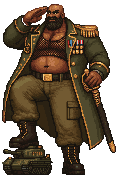
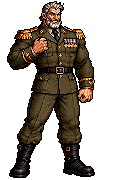
Redraw jompon sprites to match his love-scene design (silver hair, grey beard)
Claude-Session: https://claude.ai/code/session_01VCzUnoAUkKZrLg4uFbhBUz

diff --git a/web/index.html b/web/index.html
@@ -829,7 +829,7 @@ const HUNKS = [
     look: { skin: '#e0a77a', hair: '#8f8f8f', hs: 'side', beard: 'full', hairy: 1.5, inner: ['tee', '#d9c48a'], outer: ['flannel', '#3f6aa3'], pants: '#8a7350', briefs: '#a33838' } }),
   H({ id: 'jompon', tribe: 'bear', name: 'จอมพล', cost: 3, pow: 3, grit: 7, outfit: 2, in: 'S', out: 'S', kw: ['thick'],
     text: 'Thick\nBARE: หมีของเราทุกตัว Power +1', short: 'Thick · BARE: หมีทั้งทีม +1',
-    look: { skin: '#8d5a3a', hair: '#151010', hs: 'bald', beard: 'full', hairy: 2, S: 31, W: 28, inner: ['tank', '#3d3d44'], outer: ['uniform', '#4b5a3a'], pants: '#4d5a33', briefs: '#c9a227' } }),
+    look: { skin: '#d8986a', hair: '#aaa', hs: 'side', beard: 'full', hairy: 2, S: 31, W: 28, inner: ['tank', '#3d3d44'], outer: ['uniform', '#4b5a3a'], pants: '#4d5a33', briefs: '#4d5a33' } }),
   H({ id: 'tiger', tribe: 'jock', name: 'ไทเกอร์', cost: 2, pow: 4, grit: 3, outfit: 1, in: 'F', out: 'H', kw: ['rush'],
     text: 'Rush: ตีได้ตั้งแต่เทิร์นที่ลง', short: 'Rush: ลงแล้วตีได้เลย',
     look: { skin: '#d79a6a', hair: '#e0892a', hs: 'spiky', beard: 'stubble', hairy: 0, inner: ['tank', '#ff7b1c'], outer: ['jacket', '#222228'], pants: '#23202a', briefs: '#111111' } }),
@@ -1342,7 +1342,7 @@ const ART = {
   ben: { A: 'art/ben_A.png', A1: 'art/ben_A1.png', B: 'art/ben_B.png', c1: 'art/ben_c1.png', c0: 'art/ben_c0.png',
     w: 128, h: 180, t: {s: 0.95, x: -3.2, y: -22.9}, pec: [56, 42, 24, 9], belly: [58, 70, 22, 12], head: [55, 18, 12, 13], crotch: [60, 92, 14, 8] },
   jompon: { A: 'art/jompon_A.png', A1: 'art/jompon_A1.png', B: 'art/jompon_B.png', c1: 'art/jompon_c1.png', c0: 'art/jompon_c0.png',
-    w: 128, h: 180, t: {s: 0.95, x: -7.0, y: -23.8}, pec: [58, 45, 24, 9], belly: [58, 68, 22, 13], head: [55, 18, 12, 13], crotch: [55, 95, 13, 8] },
+    w: 128, h: 180, t: {s: 0.95, x: 1.6, y: -20.9}, pec: [55, 43, 24, 9], belly: [55, 62, 16, 9], head: [53, 18, 10, 11], crotch: [55, 82, 14, 7] },
   dave: { A: 'art/dave_A.png', A1: 'art/dave_A1.png', B: 'art/dave_B.png', c1: 'art/dave_c1.png', c0: 'art/dave_c0.png',
     w: 128, h: 180, t: {s: 0.95, x: -12.7, y: -21.9}, pec: [60, 48, 20, 8], belly: [60, 68, 15, 10], head: [52, 18, 12, 13], crotch: [58, 90, 13, 8] },
   champ: { A: 'art/champ_A.png', A1: 'art/champ_A1.png', B: 'art/champ_B.png', c1: 'art/champ_c1.png', c0: 'art/champ_c0.png',

diff --git a/art/build_art.py b/art/build_art.py
@@ -89,7 +89,7 @@ CHARS = {
   'chai':   ('chars/chai_A_0.png', 'chars/chai_A1_0.png', 'chars/chai_B_0.png'),
   'beowulf': ('chars/beow2_A_0.png', 'chars/beow2_A1_0.png', 'chars/beow2_B2_0.png'),
   'ben':    ('pilot/ben2_flash_0.png', 'pilot/ben2_A1_0.png', 'pilot/ben2_B_0.png'),
-  'jompon': ('chars/jompon_A_0.png', 'chars/jompon_A1b_0.png', 'chars/jompon_B_0.png'),
+  'jompon': ('chars/jompon2_A_0.png', 'chars/jompon2_A1_0.png', 'chars/jompon2_B2_0.png'),
   'dave':   ('chars/dave_A_0.png', 'chars/dave_A1_0.png', 'chars/dave_B2_0.png'),
   'champ':  ('chars/champ_A_0.png', 'chars/champ_A1n_0.png', 'chars/champ_Bm_0.png'),
   'ton':    ('chars/ton_A_0.png', 'chars/ton_A1m_0.png', 'chars/ton_B_0.png'),
